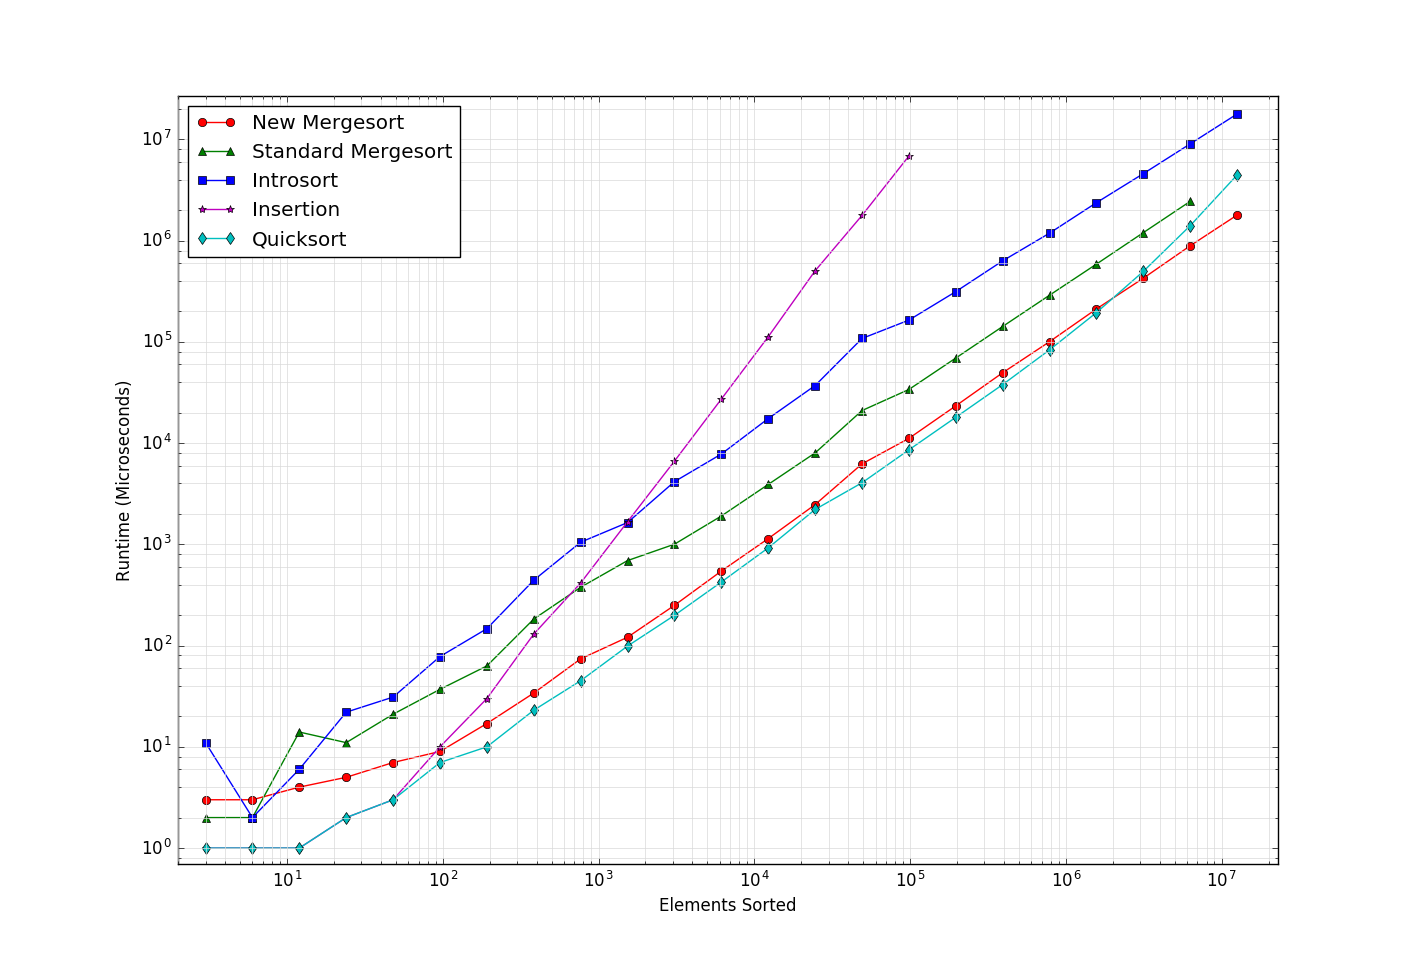
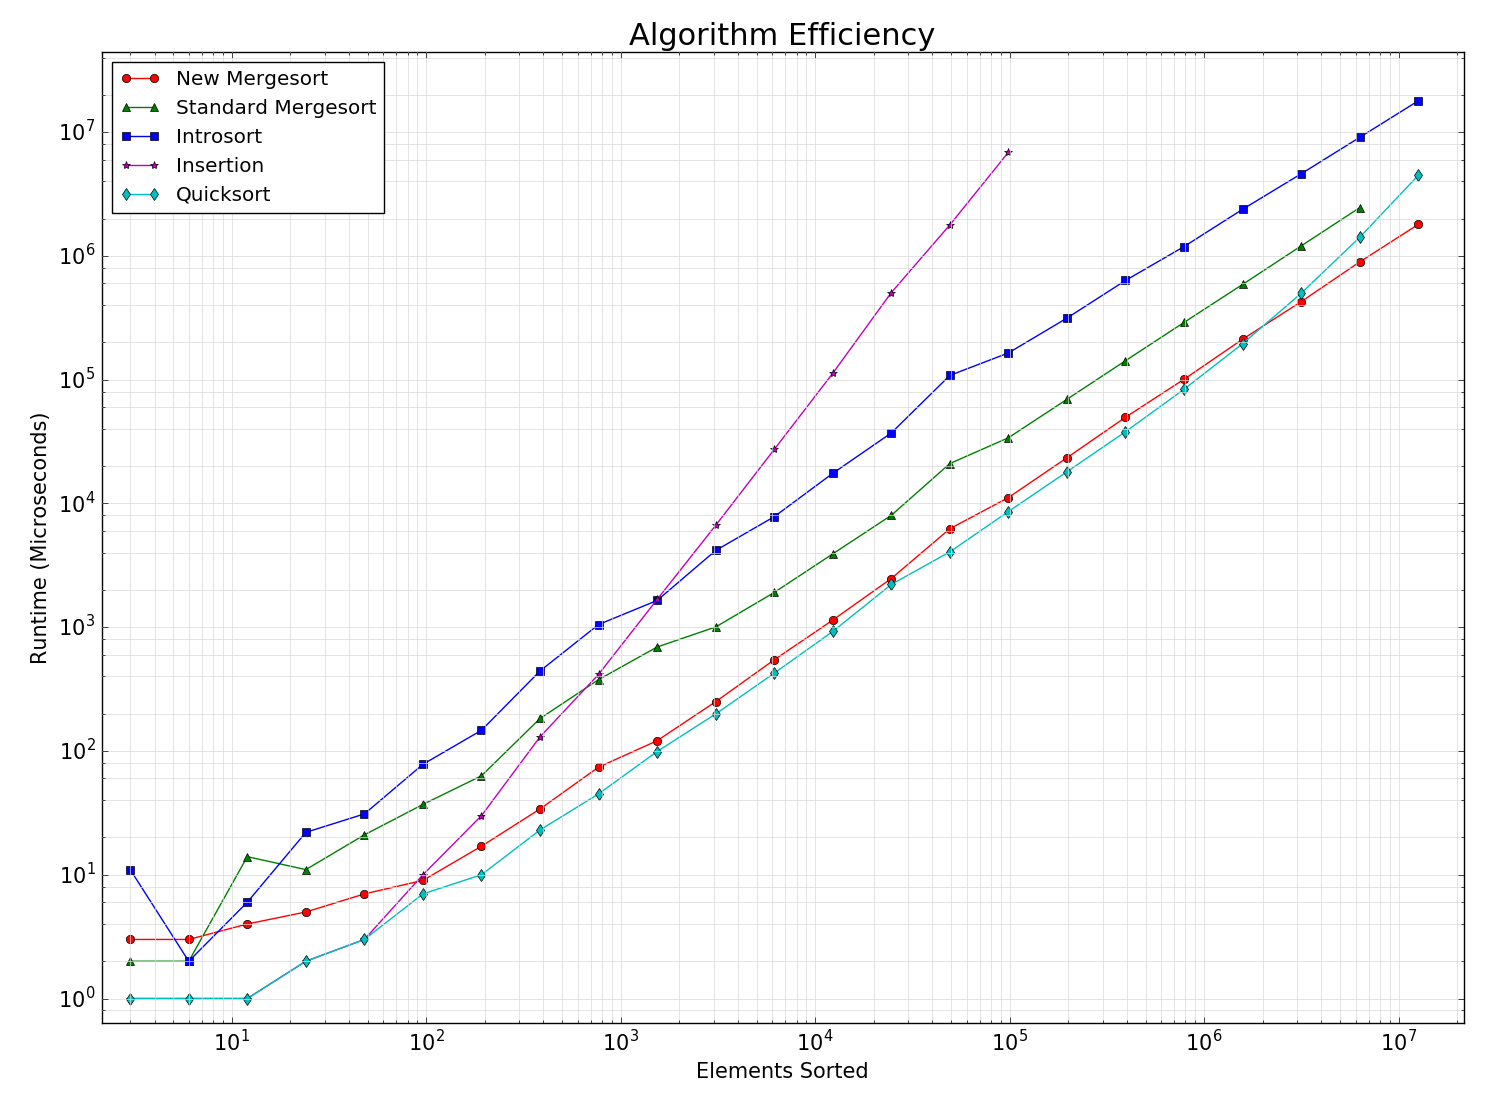
add graph

diff --git a/report.tex b/report.tex
@@ -173,8 +173,10 @@
 	However, it can be seen that at around 2 million elements, the new merge sort pulled ahead. 
 	Each algorithm in the plot with the exception of insertion sort has an average runtime of $ n \cdot log (n) $, yet it is clear that that is not a good enough descriptor.
 
-	\begin{figure}
-
+	\begin{figure}[h]
+		\centering
+		\includegraphics[width=6in]{figure_3.png}
+		\caption{Algorithm Efficiency}
 	\end{figure}
 	
 \section{Conclusion}
